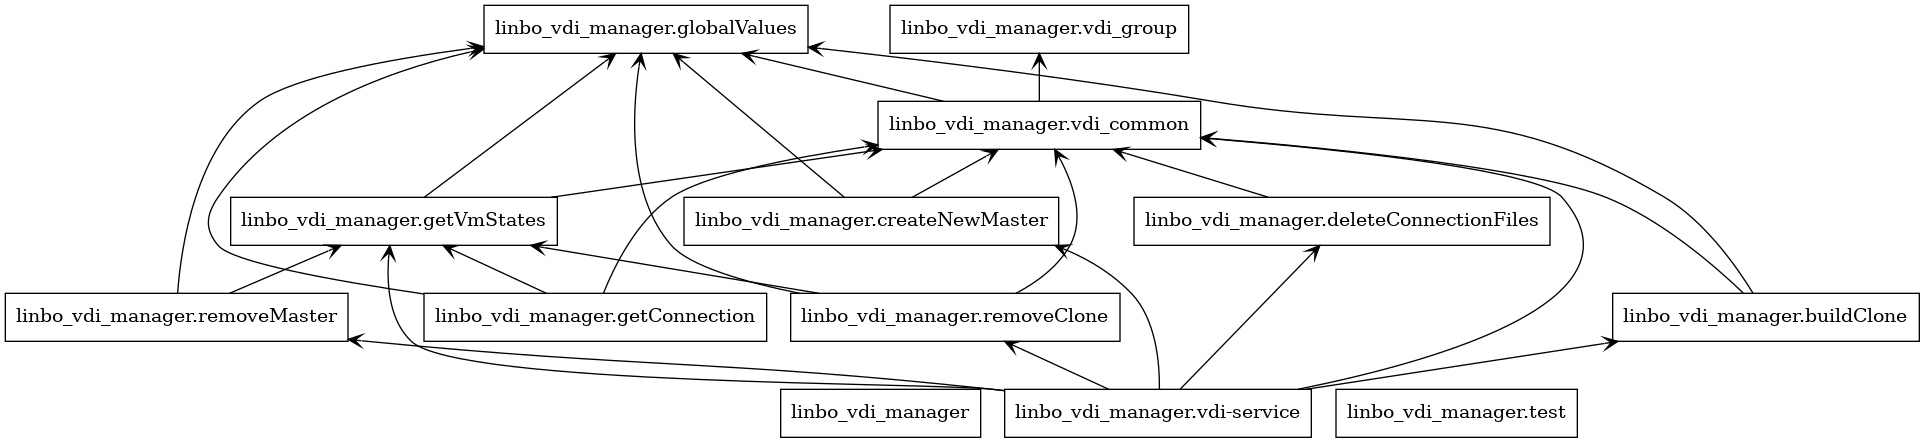
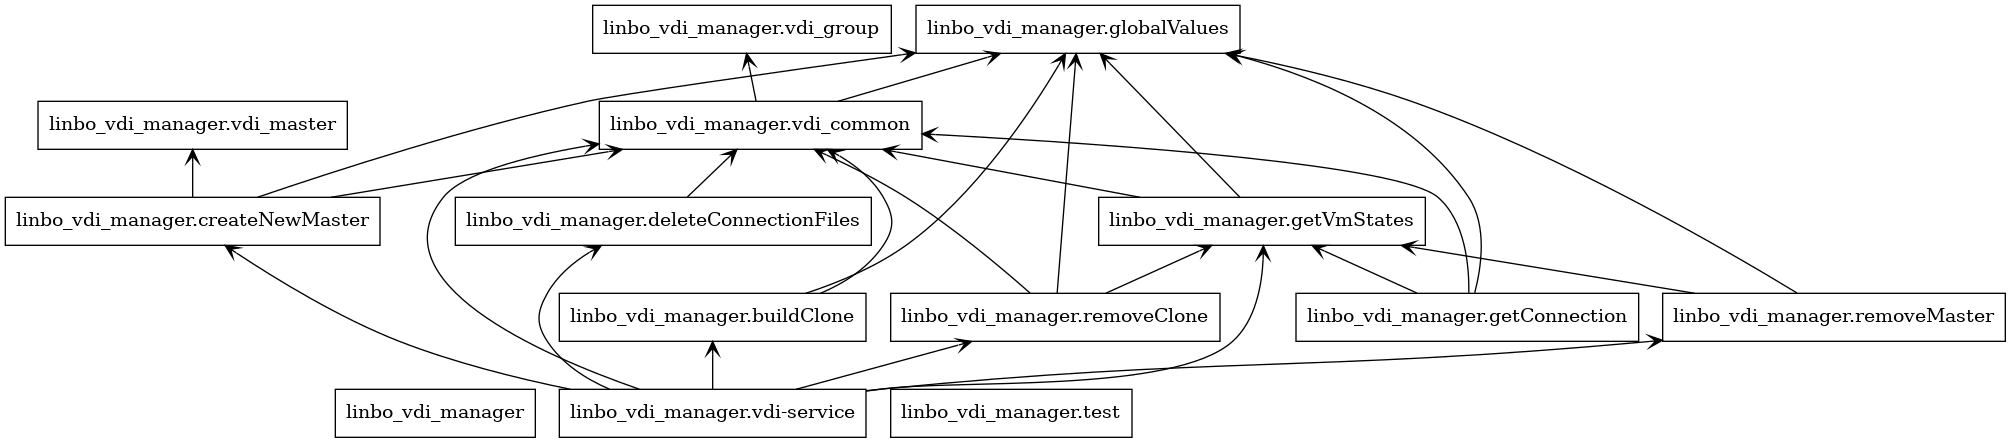
switched to objects for vdi_groups

diff --git a/usr/lib/linuxmuster-linbo-vdi/linbo_vdi_manager/vdi_common.py b/usr/lib/linuxmuster-linbo-vdi/linbo_vdi_manager/vdi_common.py
@@ -9,7 +9,8 @@ import configparser
 import time
 import subprocess
 import paramiko
-from linbo_vdi_manager.vdi_group import VDIGroup
+from vdi_group import VDIGroup
+from vdi_master import VDIMaster
 
 from globalValues import vdiLocalService, ssh, proxmox, node
 
@@ -124,18 +125,24 @@ def get_school_id(vdiGroup):
 
 
 def get_vdi_groups() -> list:
-    vdi_groups = {'general': {'active_groups': []}, 'groups': []}
-
+    vdi_groups = []
     for vdi_file in glob.glob("/srv/linbo/*.vdi"):
         data = json_loader(vdi_file)
         if data:
             vdi_group_name = vdi_file.split("/srv/linbo/start.conf.")[1].split('.vdi')[0]
             vdi_group = VDIGroup(vdi_group_name, data)
-            vdi_groups['groups'].append(vdi_group)
-            if vdi_group.activated:
-                vdi_groups['general']['active_groups'].append(vdi_group_name)
+            vdi_groups.append(vdi_group)
 
+    # Check if any VDI group is active
+    any_active = any(vdi_group.activated for vdi_group in vdi_groups)
+    if not any_active:
+        logger.info("No active VDI Groups available!")
+        time.sleep(5)
+        # Recursively call the function to get updated list of VDI groups
+        return get_vdi_groups()
+    
     return vdi_groups
+
 
 ####### get Collection of all VMs who are registered at school server #######
 def get_vmid_range(devices,vdi_group):

diff --git a/usr/lib/linuxmuster-linbo-vdi/linbo_vdi_manager/vdi-service.py b/usr/lib/linuxmuster-linbo-vdi/linbo_vdi_manager/vdi-service.py
@@ -224,24 +224,22 @@ def run_service():
 
         vdi_groups = vdi_common.get_vdi_groups()
 
-        while len(vdi_groups['general']['active_groups']) == 0:
-            logger.info("No active VDI Groups available!")
 
-            time.sleep(5)
-            vdi_groups = vdi_common.get_vdi_groups()
 
-        for vdi_group in vdi_groups['groups']:
-            if vdi_groups['groups'][vdi_group]['activated']:
+        # Write a function which checks if there is any object in die vdi_groups which is activated
+
+        for vdi_group in vdi_groups:
+            if vdi_group.activated:
                 try:
                     handle_master(vdi_groups['groups'][vdi_group], vdi_group)
                 except Exception as e:
                     logger.error("Master failed: " + str(e))
-        for vdi_group in vdi_groups['groups']:
-            if vdi_groups['groups'][vdi_group]['activated']:
                 try:
                     handle_clones(vdi_groups['groups'][vdi_group], vdi_group)
                 except Exception as e:
                     logger.error("Clone failed: " + str(e))
+
+
 
         ### delete deprecated connection files ###
         deleteDeprecatedFiles()

diff --git a/usr/lib/linuxmuster-linbo-vdi/linbo_vdi_manager/createNewMaster.py b/usr/lib/linuxmuster-linbo-vdi/linbo_vdi_manager/createNewMaster.py
@@ -18,6 +18,8 @@ from globalValues import node, multischool, proxmox, nmapPorts, vdiLocalService
 # from globalValues import getMasterDetailsgetFileContent, getSchoolId
 if vdiLocalService == False:
     from globalValues import ssh
+from vdi_master import VDIMaster
+
 
 logger = logging.getLogger(__name__)
 
@@ -242,7 +244,7 @@ def wait_for_status_stopped(proxmox, timeout, node, vmid, vdi_group):
     return False
 
 
-def create_master(group_data, vdi_group):
+def create_master(group_data, vdi_group): 
     logger.info(f"[{vdi_group}] Creating new Master...")
 
     school_id = vdi_common.get_school_id(vdi_group)

diff --git a/usr/lib/linuxmuster-linbo-vdi/linbo_vdi_manager/vdi_group.py b/usr/lib/linuxmuster-linbo-vdi/linbo_vdi_manager/vdi_group.py
@@ -1,6 +1,8 @@
 class VDIGroup:
     def __init__(self, name, data):
         self.name = name
-        self.data = data
-        self.activated = self.data.get('activated', False)
+        #self.data = data
+        for k,v in data.items():
+            setattr(self, k, v)
+
 

diff --git a/usr/lib/linuxmuster-linbo-vdi/linbo_vdi_manager/vdi_master.py b/usr/lib/linuxmuster-linbo-vdi/linbo_vdi_manager/vdi_master.py
@@ -1,0 +1,6 @@
+# linbo_vdi_manager/master.py
+class VDIMaster:
+    def __init__(self, name, data):
+        self.name = name
+        self.data = data
+        # Add any additional attributes and methods specific to the Master class
